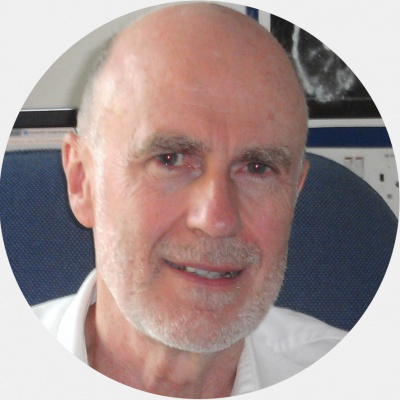
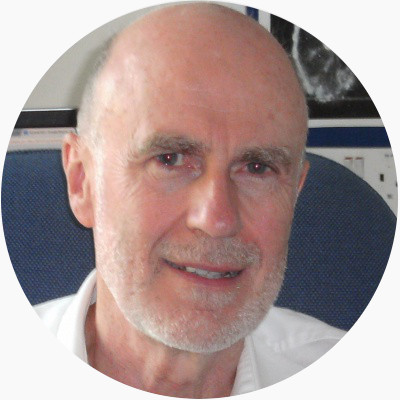
images are now all lightgrey to go with the redesign

diff --git a/app/views.py b/app/views.py
@@ -174,7 +174,7 @@ def audiodoc(url):
     audiodoc_list = [url+'.json']  # list only has the selected audiodoc
     audiodocs = ad_fun(audiodoc_list)
 
-    return render_template('episode_page.html', audiodocs=audiodocs)
+    return render_template('audiodoc.html', audiodocs=audiodocs)
 
 
 "----------------------------------------------------------------------------------------------------"
